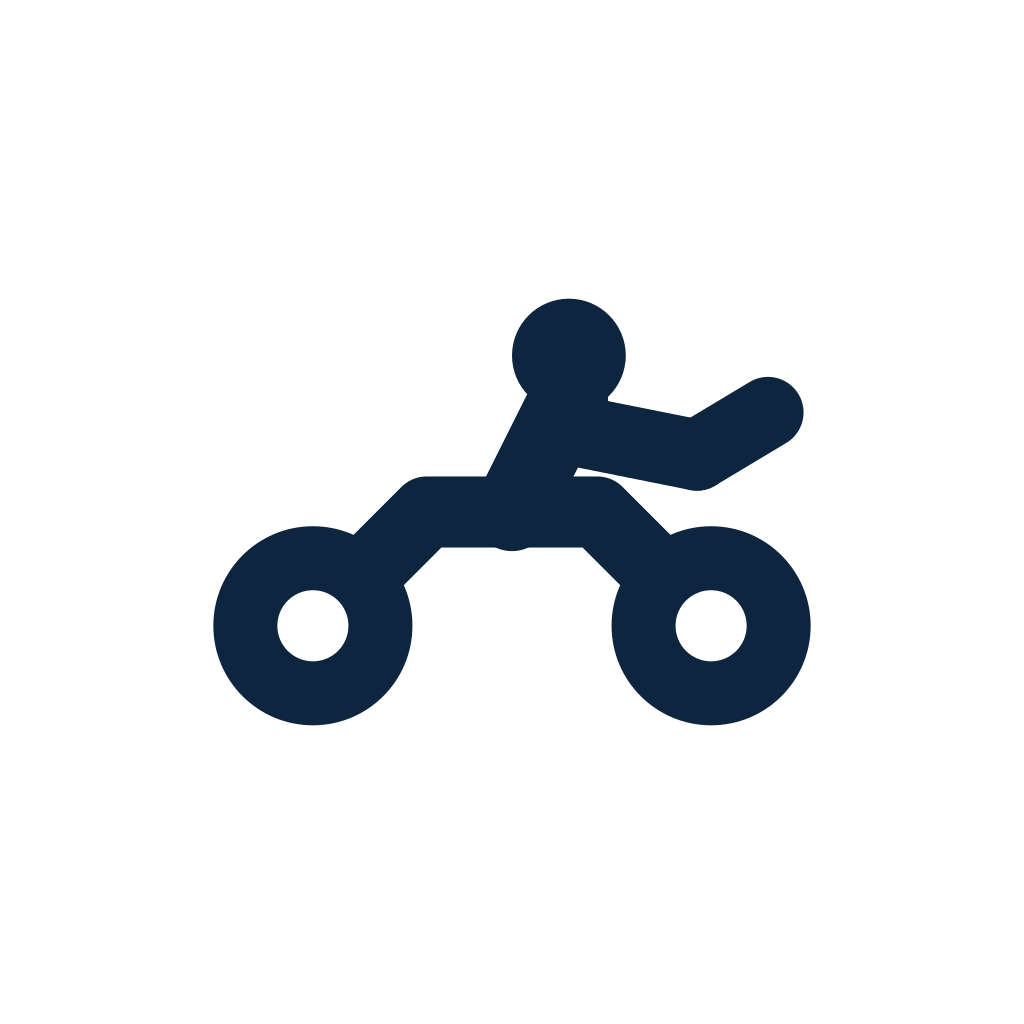
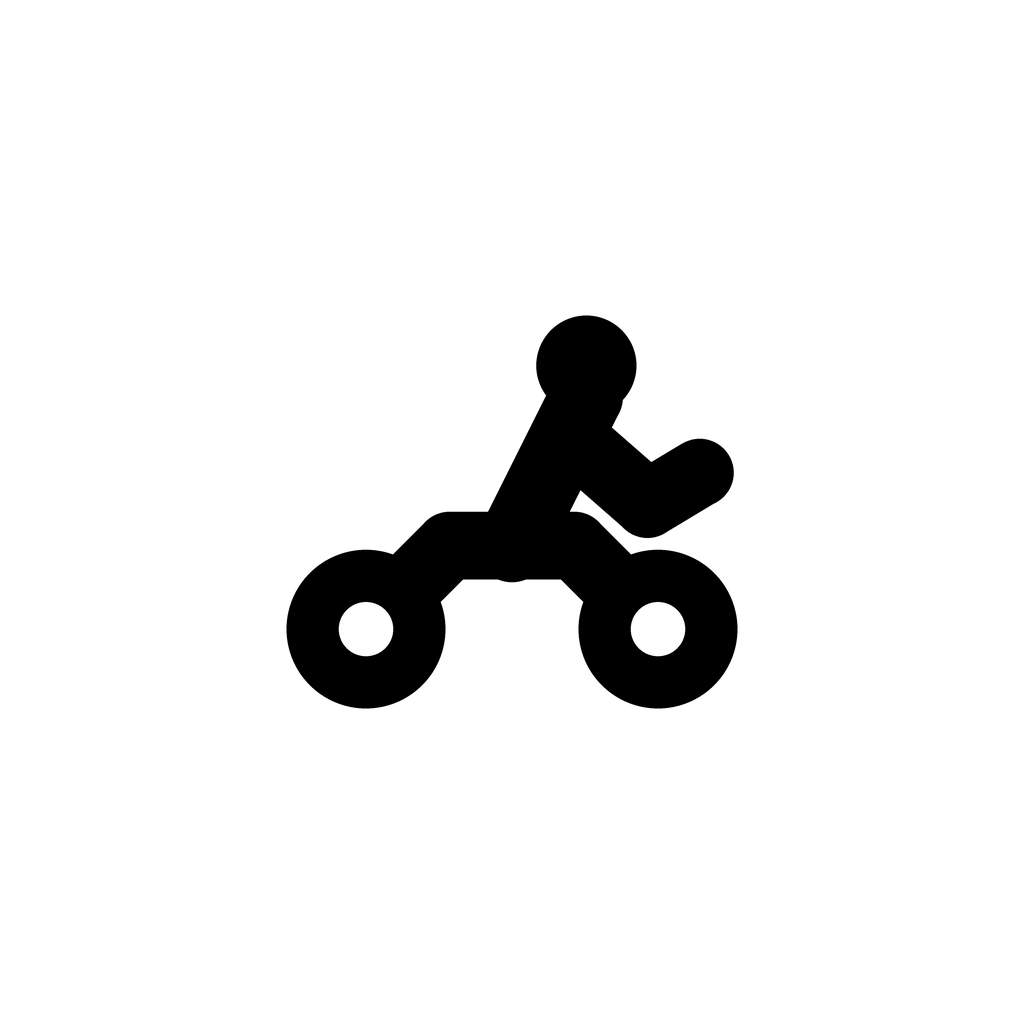
feat(brand): the real okada on all three apps, and the dead social buttons go
TWO OF THREE APPS SHIPPED THE STOCK EXPO CHEVRON. driver and business
carried byte-identical copies of the Expo template icon; only customer had
anything of ours. Install all three today and two of them looked
unbranded. Their adaptive backgrounds disagreed too, white against black
against navy, so even the shapes behind them were three different brands.

All three now carry the same seven files, cut from the geometry the
founder chose over the course of the evening: A4 weight, run D stretched to
15.94, lean unchanged at 63.4 degrees, even frame, no wordmark.

  icon.png                     navy #0A1F38 on Cloud Dancer #F5F5F0
  android-icon-foreground      the mark, transparent, ink at 0.44 of canvas
  android-icon-background      flat Cloud Dancer
  android-icon-monochrome      for Android 13+ themed icons
  splash-icon / -dark          navy mark, and white for dark mode
  favicon

The foreground is 0.44 and not 0.66 on purpose: an adaptive icon's visible
area is the middle 72dp of a 108dp layer, so landing at 66% of what you
SEE means 0.66 x 72/108 of the file. That one is invisible until it is on
a phone.

app.json in all three: adaptive background unified to Cloud Dancer, splash
imageWidth 175 so the mark lands near 32% of a 360dp screen, and a REAL
dark block. Dark was previously #FFFFFF, identical to light, so a customer
opening SEIRS at night got a full-screen white flash before a near-black
app.

GOOGLE AND APPLE REMOVED FROM CUSTOMER LOGIN. They were dead:
[…]

Changed region(s): [[0.1875, 0.2812, 0.8125, 0.7188]]

diff --git a/seirs-app/apps/customer-app/app/(auth)/login.tsx b/seirs-app/apps/customer-app/app/(auth)/login.tsx
@@ -12,9 +12,8 @@ import { SeirsMarkBold } from '@/components/SeirsLogoV2';
 import { useAuth } from '@/context/AuthContext';
 import { authApi } from '@/services/api';
 import { PasswordInput } from '@/components/PasswordInput';
-import { GoogleIcon } from '@/components/GoogleIcon';
 import {
-  ArrowLeft, Mail, ArrowRight, Apple as AppleIcon, Truck,
+  ArrowLeft, Mail, ArrowRight, Truck,
 } from 'lucide-react-native';
 
 export default function LoginScreen() {
@@ -63,25 +62,7 @@ export default function LoginScreen() {
     }
   };
 
-  const handleGoogle = async () => {
-    setError('');
-    try {
-      const res = await authApi.googleLogin();
-      await login({ ...res.user, token: res.token, rememberMe, pendingDeletion: (res as any).pendingDeletion ?? null });
-    } catch (e: any) {
-      setError(e.message ?? 'Google sign-in failed.');
-    }
-  };
 
-  const handleApple = async () => {
-    setError('');
-    try {
-      const res = await authApi.appleLogin();
-      await login({ ...res.user, token: res.token, rememberMe, pendingDeletion: (res as any).pendingDeletion ?? null });
-    } catch (e: any) {
-      setError(e.message ?? 'Apple sign-in failed.');
-    }
-  };
 
   return (
     <KeyboardAvoidingView
@@ -189,34 +170,23 @@ export default function LoginScreen() {
           </Pressable>
         </View>
 
-        {/* Divider */}
-        <View style={styles.dividerRow}>
-          <View style={[styles.divider, { backgroundColor: theme.border }]} />
-          <Text style={[styles.dividerText, { color: theme.textThird }]}>{t('auth.orContinueWith')}</Text>
-          <View style={[styles.divider, { backgroundColor: theme.border }]} />
-        </View>
+        {/*
+          GOOGLE AND APPLE REMOVED 2026-08-30.
 
-        {/* Social buttons */}
-        <View style={styles.socialRow}>
-          <Pressable
-            style={[styles.socialBtn, { backgroundColor: theme.surface, borderColor: theme.border }, Shadows.xs]}
-            onPress={handleGoogle}
-          >
-            <GoogleIcon size={20} />
-            <Text style={[styles.socialText, { color: theme.text }]}>Continue with Google</Text>
-          </Pressable>
+          They were dead. authApi.googleLogin POSTs to /auth/google with an
+          EMPTY body; the backend's SocialLoginDto requires an idToken and
+          verifies it against GOOGLE_CLIENT_ID, so every tap returned 400
+          then 401. No Google or Apple auth package was installed in any of
+          the three apps, so there was never a token to send. Two dead
+          buttons on the first screen a new user meets, two days before
+          launch.
 
-          {Platform.OS === 'ios' && (
-            <Pressable
-              style={[styles.socialBtn, { backgroundColor: isDark ? '#FFFFFF' : '#000000', borderColor: 'transparent' }, Shadows.xs]}
-              onPress={handleApple}
-            >
-              <AppleIcon size={20} color={isDark ? '#000000' : '#FFFFFF'} strokeWidth={1.75} />
-              <Text style={[styles.socialText, { color: isDark ? '#000000' : '#FFFFFF' }]}>Apple</Text>
-            </Pressable>
-          )}
-        </View>
-
+          The backend endpoints are correct and stay. Wiring the client
+          needs a Google Cloud OAuth client, google-services.json, an Apple
+          Service ID and a signing key, all of which live in the founder's
+          accounts, so it is a post-launch job and a native change when it
+          happens.
+        */}
         {/* Footer */}
         <View style={styles.footer}>
           <Text style={[styles.footerText, { color: theme.textSecond }]}>Don't have an account?</Text>
@@ -275,17 +245,7 @@ const styles = StyleSheet.create({
   submitBtn: { height: 56, borderRadius: Radius.xl, justifyContent: 'center', alignItems: 'center' },
   submitRow: { flexDirection: 'row', alignItems: 'center', gap: Spacing.sm },
   submitText: { color: '#fff', fontSize: FontSize.md, fontWeight: FontWeight.semibold },
-
-  dividerRow:  { flexDirection: 'row', alignItems: 'center', gap: Spacing.md, marginBottom: Spacing.lg },
-  divider:     { flex: 1, height: 1 },
   dividerText: { fontSize: FontSize.xs, whiteSpace: 'nowrap' } as any,
-
-  socialRow: { flexDirection: 'row', gap: Spacing.md, marginBottom: Spacing.xl },
-  socialBtn: {
-    flex: 1, height: 52, borderRadius: Radius.lg, borderWidth: 1.5,
-    flexDirection: 'row', alignItems: 'center', justifyContent: 'center', gap: Spacing.sm,
-  },
-  socialText: { fontSize: FontSize.base, fontWeight: FontWeight.medium },
 
   footer:     { flexDirection: 'row', justifyContent: 'center' },
   footerText: { fontSize: FontSize.base },
